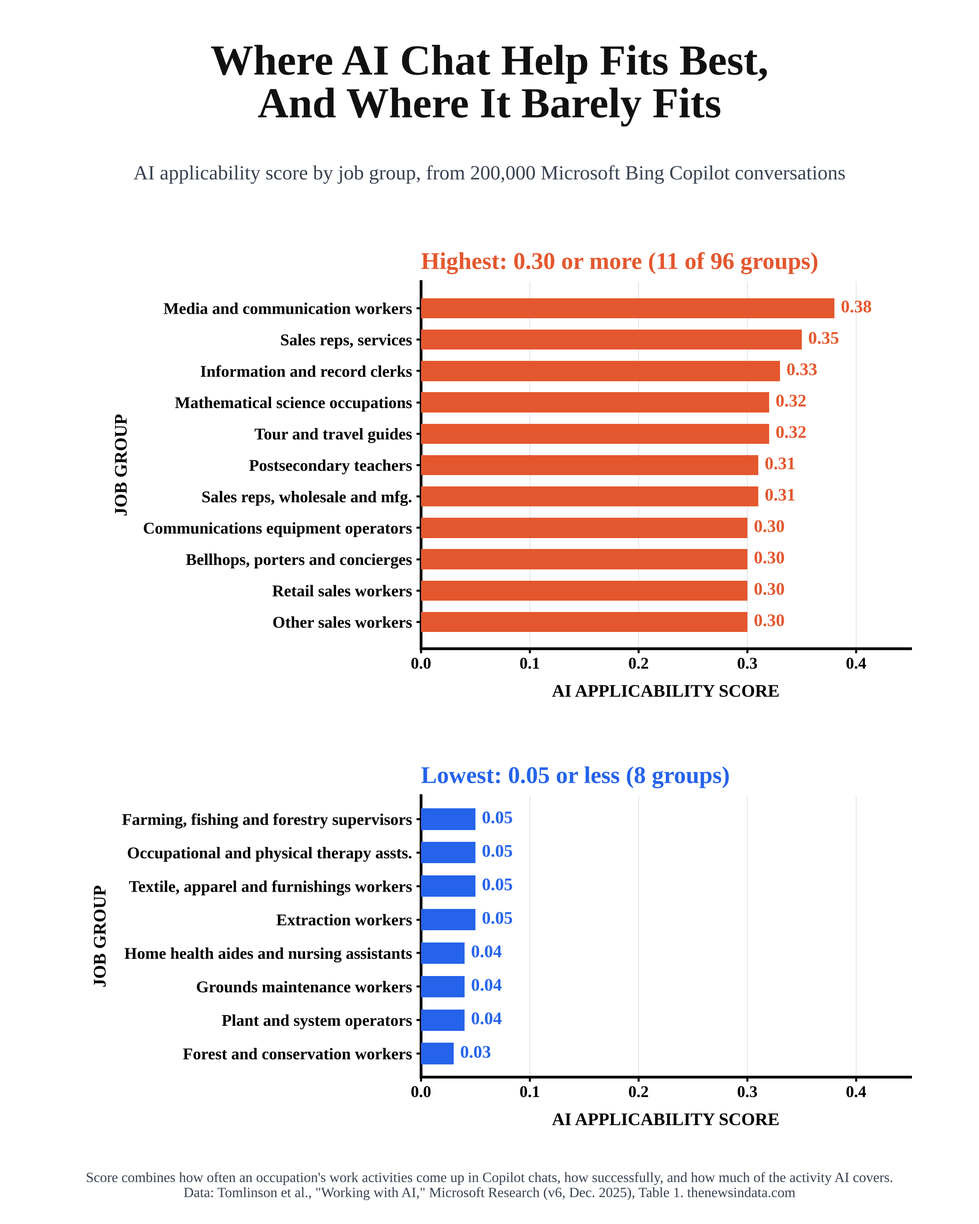
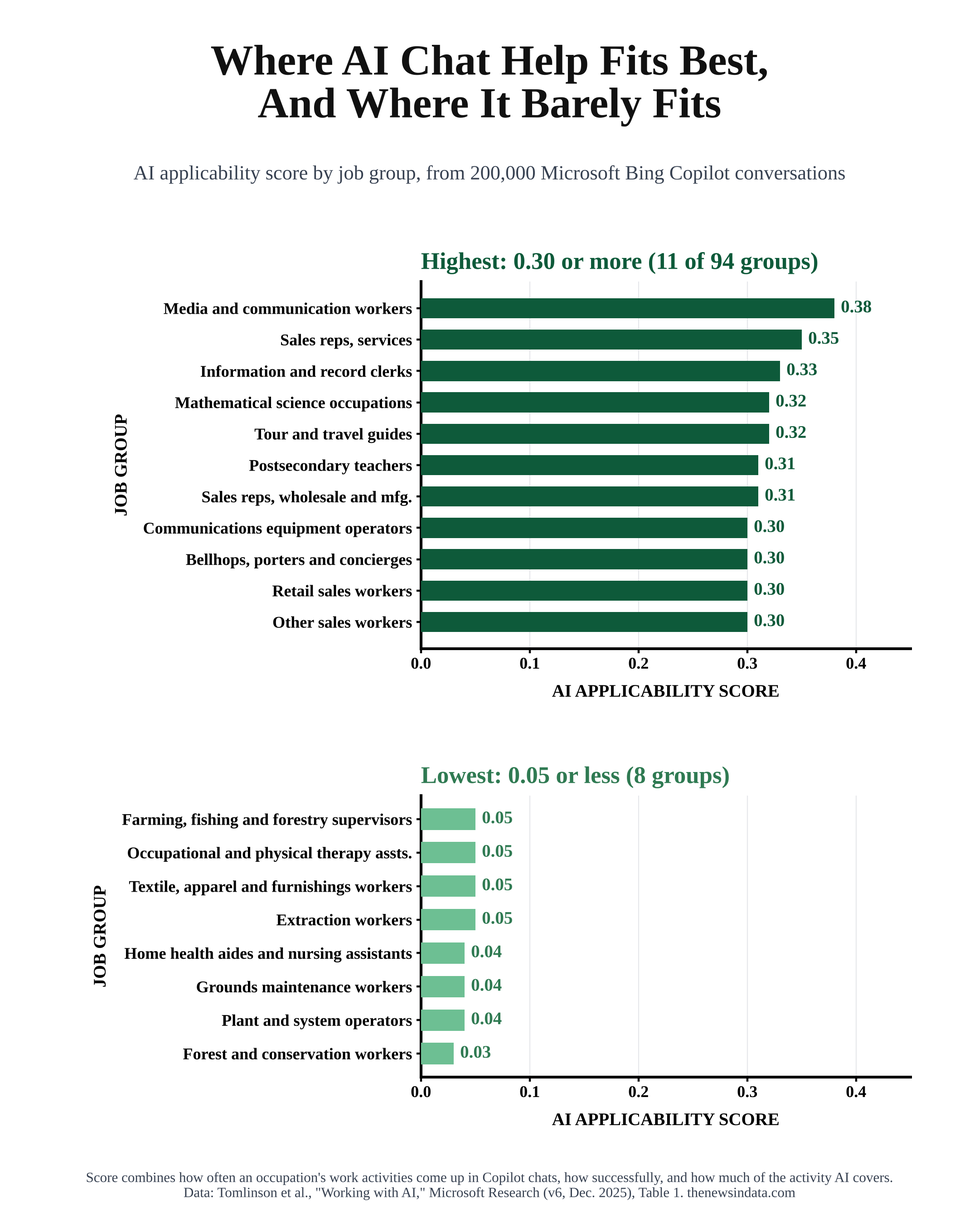
AI jobs: green charts, interactive embeds, post body
Claude-Session: https://claude.ai/code/session_014ps2HoqtiaDX9KtWWc6m6n

Changed region(s): [[0.4343, 0.1867, 0.8685, 0.5289], [0.4343, 0.6222, 0.7444, 0.8711]]

diff --git a/aijobs/post-body.html b/aijobs/post-body.html
@@ -1,0 +1,85 @@
+<style>.nid-a h2{margin:1.6em 0 .5em}.nid-a .nid-fig{margin:2.4em auto;max-width:620px}.nid-a .nid-fig img{width:100%;height:auto;display:block;border:1px solid #e6e3dd;border-radius:6px}.nid-a .nid-photo{max-width:520px}.nid-a .nid-fig figcaption{font-size:.82em;color:#5f7268;margin-top:.5em;line-height:1.4}.nid-a .nid-method{font-size:.92em;margin-top:2em}.nid-a .nid-fig.nid-wide{max-width:100%}.nid-a .nid-wide img{border-radius:8px}</style><div class="nid-a">
+<p>AI is already being used for 74.5% of computer programmers' work tasks, more than for any other occupation, according to a March 2026 study by Anthropic, the company that makes the Claude AI model. Customer service representatives (70.1%), data entry keyers (67.1%) and medical records specialists (66.7%) follow. Yet the study found no systematic rise in unemployment among the most exposed workers since ChatGPT's release in late 2022.</p>
+<figure class="nid-fig"><img src="https://stories.thenewsindata.com/aijobs/aijobs-chart.png?v=1" alt="Bar chart of the 10 occupations with the highest share of tasks already covered by AI use: computer programmers 74.5%, customer service representatives 70.1%, data entry keyers 67.1%, medical records specialists 66.7%, market research analysts 64.8%, wholesale sales reps 62.8%, financial analysts 57.2%, software QA analysts 51.9%, information security analysts 48.6% and computer support specialists 46.8%." width="1080" height="1350"></figure>
+<h2>What &quot;exposed&quot; means</h2>
+<p>The study, by Anthropic economists Maxim Massenkoff and Peter McCrory, starts with a 2023 rating of every task in the Labor Department's O*NET job database for whether a large language model could do it at least twice as fast. It then keeps only the tasks that actually show up in work-related Claude conversations, counts tasks Claude performs fully and tasks it assists with at half weight, and weights each task by how much of the job it takes up. The result is a share of each job's work that AI is already doing or helping with, not a forecast of job losses. About 30% of U.S. workers, including cooks, bartenders, lifeguards and dishwashers, have no exposure at all.</p>
+<figure class="nid-fig nid-photo nid-wide"><img src="https://upload.wikimedia.org/wikipedia/commons/1/15/ComputerProgrammer.jpg" alt="Hands typing code on a laptop keyboard" loading="lazy"><figcaption>Computer programmers have the highest observed exposure in Anthropic's data, at 74.5% of tasks. Photo: <a href="https://commons.wikimedia.org/wiki/File:ComputerProgrammer.jpg">Free-Photos</a>, <a href="https://creativecommons.org/publicdomain/zero/1.0/">CC0</a>, via Wikimedia Commons.</figcaption></figure>
+<h2>Most of what AI could do, it isn&#x27;t doing yet</h2>
+<p>Large language models could in theory speed up 94% of the tasks in computer and math jobs and 90% in office and administrative jobs, but Claude covers only about a third of computer and math tasks in practice. In grounds maintenance, the theoretical share is under 4%, and in transportation, agriculture, food service and construction it is under 20%.</p>
+<style>
+.nid-ai{max-width:640px;margin:2.4em auto;font-family:Georgia,'Times New Roman',serif;color:#111}
+.nid-ai h3{font-size:1.25em;margin:0 0 .2em;text-align:center}
+.nid-ai .sub{font-size:.88em;color:#4b5b52;text-align:center;margin:0 0 .9em}
+.nid-ai input{width:100%;box-sizing:border-box;padding:11px 14px;font:16px Georgia,serif;border:2px solid #0E5A3A;border-radius:999px;margin-bottom:10px;outline:none}
+.nid-ai .list{max-height:520px;overflow-y:auto;border:1px solid #dbe9e0;border-radius:10px;padding:6px 10px;background:#fff}
+.nid-ai .row{display:grid;grid-template-columns:2.2em 1fr 3em;align-items:center;gap:8px;padding:5px 0;border-bottom:1px solid #f0f5f2;font-size:.9em}
+.nid-ai .row:last-child{border-bottom:none}
+.nid-ai .rk{color:#6b7f73;font-size:.85em;text-align:right}
+.nid-ai .nm{line-height:1.2}
+.nid-ai .bar{height:8px;border-radius:4px;margin-top:4px}
+.nid-ai .val{font-weight:700;color:#0E5A3A;text-align:right}
+.nid-ai .row.hit{background:#E8F5EE}
+.nid-ai .note{font-size:.78em;color:#5f7268;margin-top:.6em;line-height:1.4;text-align:center}
+.nid-ai .tg{display:flex;justify-content:center;gap:8px;margin-bottom:10px}
+.nid-ai .tg button{font:600 14px/1 Georgia,serif;padding:8px 16px;border-radius:999px;border:2px solid #0E5A3A;background:#fff;color:#0E5A3A;cursor:pointer}
+.nid-ai .tg button[aria-pressed=true]{background:#0E5A3A;color:#fff}
+.nid-ai .cat{display:grid;grid-template-columns:minmax(120px,40%) 1fr;align-items:center;gap:10px;padding:4px 0;font-size:.9em;cursor:pointer}
+.nid-ai .track{background:#E8F5EE;border-radius:5px;height:20px;position:relative}
+.nid-ai .fill{height:20px;border-radius:5px;display:flex;align-items:center;justify-content:flex-end;padding-right:6px;box-sizing:border-box;color:#fff;font-weight:700;font-size:.82em}
+.nid-ai .fill.out{justify-content:flex-start}
+.nid-ai .lab{text-align:right;line-height:1.15}
+</style><div class="nid-ai" id="nid-ai-cat"><h3>How Much Of Each Job AI Could Speed Up</h3><p class="sub">Share of each job category's tasks a language model could theoretically speed up. Tap a bar for details.</p>
+<div class="tg" role="group" aria-label="Sort"><button type="button" data-s="v" aria-pressed="true">Highest first</button><button type="button" data-s="a" aria-pressed="false">A to Z</button></div><div class="bars"></div>
+<p class="note" id="nid-ai-cat-d">In computer and math jobs, AI could theoretically speed up 94% of tasks, but Claude was being used for only about a third of them.</p>
+<p class="note">Theoretical shares are Eloundou et al. (2023) task ratings as charted by Anthropic, "Labor market impacts of AI," March 2026, as reported by Euronews.</p></div>
+<script>(function(){var C=[["Computer and math", 94.3], ["Business and finance", 94.3], ["Management", 91.3], ["Office and administrative support", 90.0], ["Legal", 89.0], ["Architecture and engineering", 84.8], ["Arts and media", 83.7], ["Life, physical and social science", 77.0], ["Sales", 62.0], ["Education and library", 61.7], ["Healthcare practitioners", 59.9], ["Community and social service", 50.5], ["Protective service", 31.6], ["Healthcare support", 28.5], ["Production", 19.0], ["Installation and repair", 18.4], ["Personal care and service", 18.2], ["Food preparation and serving", 16.9], ["Construction", 16.9], ["Farming, fishing and forestry", 15.7], ["Transportation", 12.1], ["Grounds maintenance", 3.9]];var r=document.getElementById("nid-ai-cat");if(!r)return;var B=r.querySelector(".bars"),N=document.getElementById("nid-ai-cat-d"),bt=r.querySelectorAll("button");
+function col(v){var t=v/100;var a=[168,219,190],b=[14,90,58];return "rgb("+a.map(function(x,i){return Math.round(x+(b[i]-x)*t)}).join(",")+")"}
+function draw(s){var d=C.slice();if(s==="a")d.sort(function(x,y){return x[0]<y[0]?-1:1});B.innerHTML="";d.forEach(function(c){var e=document.createElement("div");e.className="cat";var o=c[1]<14;
+e.innerHTML='<span class="lab">'+c[0]+'</span><span class="track"><span class="fill'+(o?' out':'')+'" style="width:'+(o?Math.max(c[1],1):c[1])+'%;background:'+col(c[1])+'">'+(o?'':c[1].toFixed(1)+'%')+'</span>'+(o?'<span style="position:absolute;left:'+(c[1]+1.5)+'%;top:1px;font-weight:700;font-size:.82em;color:#0E5A3A">'+c[1].toFixed(1)+'%</span>':'')+'</span>';
+e.onclick=function(){N.textContent=c[0]+": a language model could theoretically speed up "+c[1].toFixed(1)+"% of the tasks in these jobs."};B.appendChild(e)})}
+bt.forEach(function(b){b.onclick=function(){bt.forEach(function(x){x.setAttribute("aria-pressed",x===b?"true":"false")});draw(b.getAttribute("data-s"))}});draw("v")})();</script>
+<h2>A second study finds the same pattern</h2>
+<p>Microsoft researchers scored 96 job groups on how well their work matches about 200,000 conversations with Bing Copilot. Media and communication workers scored highest at 0.38, followed by service sales representatives and information and record clerks. Forest and conservation workers, plant and system operators, grounds maintenance workers and home health aides scored lowest, at 0.04 or less. The researchers found only a weak link between a job's score and its pay.</p>
+<figure class="nid-fig"><img src="https://stories.thenewsindata.com/aijobs/aijobs-groups.png?v=1" alt="Bar charts of Microsoft AI applicability scores: media and communication workers 0.38 highest; forest and conservation workers 0.03 lowest." width="1080" height="1350"></figure>
+<p>Teachers land in the middle: postsecondary teachers score 0.31 and elementary, middle and high school teachers 0.18. Search for any of the 94 job groups below.</p>
+<style>
+.nid-ai{max-width:640px;margin:2.4em auto;font-family:Georgia,'Times New Roman',serif;color:#111}
+.nid-ai h3{font-size:1.25em;margin:0 0 .2em;text-align:center}
+.nid-ai .sub{font-size:.88em;color:#4b5b52;text-align:center;margin:0 0 .9em}
+.nid-ai input{width:100%;box-sizing:border-box;padding:11px 14px;font:16px Georgia,serif;border:2px solid #0E5A3A;border-radius:999px;margin-bottom:10px;outline:none}
+.nid-ai .list{max-height:520px;overflow-y:auto;border:1px solid #dbe9e0;border-radius:10px;padding:6px 10px;background:#fff}
+.nid-ai .row{display:grid;grid-template-columns:2.2em 1fr 3em;align-items:center;gap:8px;padding:5px 0;border-bottom:1px solid #f0f5f2;font-size:.9em}
+.nid-ai .row:last-child{border-bottom:none}
+.nid-ai .rk{color:#6b7f73;font-size:.85em;text-align:right}
+.nid-ai .nm{line-height:1.2}
+.nid-ai .bar{height:8px;border-radius:4px;margin-top:4px}
+.nid-ai .val{font-weight:700;color:#0E5A3A;text-align:right}
+.nid-ai .row.hit{background:#E8F5EE}
+.nid-ai .note{font-size:.78em;color:#5f7268;margin-top:.6em;line-height:1.4;text-align:center}
+.nid-ai .tg{display:flex;justify-content:center;gap:8px;margin-bottom:10px}
+.nid-ai .tg button{font:600 14px/1 Georgia,serif;padding:8px 16px;border-radius:999px;border:2px solid #0E5A3A;background:#fff;color:#0E5A3A;cursor:pointer}
+.nid-ai .tg button[aria-pressed=true]{background:#0E5A3A;color:#fff}
+.nid-ai .cat{display:grid;grid-template-columns:minmax(120px,40%) 1fr;align-items:center;gap:10px;padding:4px 0;font-size:.9em;cursor:pointer}
+.nid-ai .track{background:#E8F5EE;border-radius:5px;height:20px;position:relative}
+.nid-ai .fill{height:20px;border-radius:5px;display:flex;align-items:center;justify-content:flex-end;padding-right:6px;box-sizing:border-box;color:#fff;font-weight:700;font-size:.82em}
+.nid-ai .fill.out{justify-content:flex-start}
+.nid-ai .lab{text-align:right;line-height:1.15}
+</style><div class="nid-ai" id="nid-ai-find"><h3>Find Your Job Group</h3><p class="sub">AI applicability score for 94 job groups, from Microsoft's study of Bing Copilot conversations. Higher means more of the group's work matches what people use AI chat for.</p>
+<input type="search" placeholder="Type a job, like teacher, nurse or sales" aria-label="Search job groups"><div class="list" role="list"></div>
+<p class="note">Scores range from 0.03 to 0.38 in this data. Source: Tomlinson et al., "Working with AI," Microsoft Research, Table 1 (v6, Dec. 2025).</p></div>
+<script>(function(){var D=[["Media and Communication Workers", 0.38, 1], ["Sales Representatives, Services", 0.35, 2], ["Information and Record Clerks", 0.33, 2], ["Mathematical Science Occupations", 0.32, 0], ["Tour and Travel Guides", 0.32, 0], ["Postsecondary Teachers", 0.31, 1], ["Sales Reps., Wholesale and Manufacturing", 0.31, 1], ["Communications Equipment Operators", 0.3, 0], ["Baggage Porters, Bellhops, and Concierges", 0.3, 0], ["Retail Sales Workers", 0.3, 2], ["Other Sales and Related Workers", 0.3, 0], ["Computer Occupations", 0.29, 2], ["Personal Care and Service Supervisors", 0.27, 0], ["Entertainment Attendants and Related", 0.27, 1], ["Religious Workers", 0.26, 0], ["Social Scientists and Related", 0.26, 0], ["Librarians, Curators, and Archivists", 0.25, 0], ["Counselors, Social Workers, and Related", 0.25, 2], ["Supervisors of Production Workers", 0.25, 1], ["Other Office and Administrative Support Workers", 0.25, 2], ["Office and Administrative Support Supervisors", 0.25, 1], ["Financial Clerks", 0.24, 2], ["Secretaries and Administrative Assistants", 0.24, 2], ["Business Operations Specialists", 0.24, 2], ["Animal Care and Service Workers", 0.24, 0], ["Financial Specialists", 0.23, 2], ["Other Teachers and Instructors", 0.23, 1], ["Engineers", 0.22, 1], ["Physical Scientists", 0.21, 0], ["Drafters and Engineering and Mapping Technicians", 0.21, 1], ["Life Scientists", 0.2, 0], ["Art and Design Workers", 0.2, 1], ["Food and Beverage Serving Workers", 0.2, 2], ["Other Educational and Library Workers", 0.19, 1], ["Material Recording and Distribution Workers", 0.19, 2], ["Primary, Secondary, and Special Education Teachers", 0.18, 2], ["Media and Communications Equipment Workers", 0.18, 0], ["Advertising, Marketing, PR, and Sales Managers", 0.18, 1], ["Air Transportation Workers", 0.18, 0], ["Lawyers, Judges, and Related Workers", 0.17, 1], ["Transportation and Material Moving Supervisors", 0.17, 1], ["Architects, Surveyors, and Cartographers", 0.17, 0], ["Electrical and Electronic Equipment Mechanics", 0.17, 0], ["Other Healthcare Practitioners and Tech. Occupations", 0.16, 0], ["Sports Entertainers and Related", 0.16, 1], ["Other Personal Care and Service Workers", 0.16, 1], ["Cooks and Food Preparation Workers", 0.15, 2], ["Funeral Service Workers", 0.14, 0], ["Other Management Occupations", 0.14, 2], ["Building, Grounds, and Maintenance Supervisors", 0.14, 0], ["Other Protective Service Workers", 0.14, 1], ["Operations Specialties Managers", 0.14, 2], ["Occupational Health and Safety Specialists", 0.14, 0], ["Supervisors of Sales Workers", 0.14, 1], ["Law Enforcement Workers", 0.13, 1], ["Life, Physical, and Social Science Technicians", 0.13, 0], ["Motor Vehicle Operators", 0.13, 2], ["Healthcare Diagnosing or Treating Practitioners", 0.13, 2], ["Installation, Maintenance, and Repair Supervisors", 0.13, 1], ["Rail Transportation Workers", 0.12, 0], ["Other Food Preparation and Serving Workers", 0.12, 1], ["Food Preparation and Serving Supervisors", 0.12, 1], ["Food Processing Workers", 0.12, 1], ["Other Transportation Workers", 0.12, 0], ["Woodworkers", 0.12, 0], ["Top Executives", 0.11, 2], ["Construction and Extraction Supervisors", 0.11, 1], ["Assemblers and Fabricators", 0.11, 1], ["Printing Workers", 0.11, 0], ["Health Technologists and Technicians", 0.1, 2], ["Metal Workers and Plastic Workers", 0.1, 1], ["Vehicle and Mobile Equipment Mechanics", 0.1, 1], ["Other Maintenance Workers", 0.1, 2], ["Water Transportation Workers", 0.09, 0], ["Other Production Occupations", 0.08, 2], ["Building Cleaning and Pest Control Workers", 0.08, 2], ["Firefighting and Prevention Workers", 0.07, 0], ["Protective Service Supervisors", 0.07, 0], ["Material Moving Workers", 0.07, 2], ["Construction Trades Workers", 0.07, 2], ["Personal Appearance Workers", 0.06, 1], ["Agricultural Workers", 0.06, 0], ["Other Construction and Related Workers", 0.06, 0], ["Legal Support Workers", 0.06, 0], ["Other Healthcare Support Occupations", 0.06, 1], ["Helpers, Construction Trades", 0.06, 0], ["Farming, Fishing, and Forestry Supervisors", 0.05, 0], ["Occupational and Physical Therapy Assistants", 0.05, 0], ["Textile, Apparel, and Furnishings Workers", 0.05, 0], ["Extraction Workers", 0.05, 0], ["Home Health Aides and Nursing Assistants", 0.04, 2], ["Grounds Maintenance Workers", 0.04, 1], ["Plant and System Operators", 0.04, 0], ["Forest and Conservation Workers", 0.03, 0]];var r=document.getElementById("nid-ai-find");if(!r)return;var L=r.querySelector(".list"),I=r.querySelector("input");
+function col(v){var t=Math.max(0,Math.min(1,(v-.03)/.35));var a=[168,219,190],b=[14,90,58];return "rgb("+a.map(function(x,i){return Math.round(x+(b[i]-x)*t)}).join(",")+")"}
+function draw(q){q=(q||"").toLowerCase().trim();L.innerHTML="";var n=0;D.forEach(function(d,i){var m=!q||d[0].toLowerCase().indexOf(q)>-1;if(!m)return;n++;var e=document.createElement("div");e.className="row"+(q?" hit":"");e.setAttribute("role","listitem");
+e.innerHTML='<span class="rk">'+(i+1)+'</span><span class="nm">'+d[0]+'<div class="bar" style="width:'+(d[1]/.38*100)+'%;background:'+col(d[1])+'"></div></span><span class="val">'+d[1].toFixed(2)+'</span>';L.appendChild(e)});
+if(!n)L.innerHTML='<div class="row"><span></span><span class="nm">No match. Try a broader word, like "sales" or "health."</span><span></span></div>'}
+I.addEventListener("input",function(){draw(I.value)});draw("")})();</script>
+<h2>Who works in the most exposed jobs</h2>
+<p>Workers in the top quarter of exposure earn about 47% more than workers with no exposure and are 16 percentage points more likely to be women. Graduate degree holders make up 17.4% of the most exposed group and 4.5% of the unexposed group.</p>
+<h2>Where the effect may be showing up</h2>
+<p>Unemployment in the most exposed jobs has tracked unemployment in jobs with no exposure. The one sign of change is among young workers: the rate at which 22- to 25-year-olds start jobs in highly exposed occupations has averaged 14% lower since ChatGPT's release than in 2022, a result the authors call barely statistically significant, with no similar drop for workers over 25. Stanford researchers have reported a 6% to 16% fall in employment for 22- to 25-year-olds in exposed occupations. The Bureau of Labor Statistics also projects slower growth through 2034 for more exposed jobs, about 0.6 percentage point less for every 10 points of exposure.</p>
+<figure class="nid-fig nid-photo nid-wide"><img src="https://upload.wikimedia.org/wikipedia/commons/5/5f/Callcenter03.jpg" alt="Customer service agents wearing headsets at desks in a call center" loading="lazy"><figcaption>A railway call center in Hungary. Customer service representatives rank second, at 70.1%. Photo: <a href="https://commons.wikimedia.org/wiki/File:Callcenter03.jpg">MÁV Zrt.</a>, <a href="https://creativecommons.org/licenses/by-sa/3.0/">CC BY-SA 3.0</a>, via Wikimedia Commons.</figcaption></figure>
+<h2>What the data can&#x27;t tell us</h2>
+<p>Exposure measures where AI is being used, not whether a job will disappear; AI can also make workers more productive or change what a job involves. Anthropic's measure reflects how people used Claude in August and November 2025, and Microsoft's reflects Bing Copilot users, so neither captures all AI use. The 2023 task ratings may understate what newer models can do. Both studies come from companies that sell AI products.</p>
+<figure class="nid-fig nid-photo nid-wide"><img src="https://upload.wikimedia.org/wikipedia/commons/thumb/5/56/The_workers_of_4WTC_%2824488390089%29.jpg/1280px-The_workers_of_4WTC_%2824488390089%29.jpg" alt="Construction workers in hard hats at 4 World Trade Center" loading="lazy"><figcaption>Construction trades score among the lowest for AI applicability. Photo: <a href="https://commons.wikimedia.org/wiki/File:The_workers_of_4WTC_(24488390089).jpg">Billie Grace Ward</a>, <a href="https://creativecommons.org/licenses/by/2.0/">CC BY 2.0</a>, via Wikimedia Commons.</figcaption></figure>
+<p class="nid-method"><em>How we counted: occupation figures are Anthropic's "observed exposure," the time-weighted share of an occupation's O\*NET tasks that are rated feasible for a language model and appear in work-related Claude usage, with fully automated use weighted 1 and assisted use 0.5. Job-group scores are Microsoft's AI applicability scores from Table 1 of "Working with AI" (version 6, December 2025). Sources: <a href="https://www.anthropic.com/research/labor-market-impacts">Anthropic, "Labor market impacts of AI," March 5, 2026</a>; <a href="https://arxiv.org/abs/2507.07935">Tomlinson et al., Microsoft Research</a>; <a href="https://www.euronews.com/2026/03/14/how-ai-will-reshape-work-anthropic-identifies-the-most-exposed-jobs">Euronews, March 14, 2026</a>.</em></p>
+</div>

diff --git a/aijobs/embed-find.html b/aijobs/embed-find.html
@@ -1,0 +1,31 @@
+<style>
+.nid-ai{max-width:640px;margin:2.4em auto;font-family:Georgia,'Times New Roman',serif;color:#111}
+.nid-ai h3{font-size:1.25em;margin:0 0 .2em;text-align:center}
+.nid-ai .sub{font-size:.88em;color:#4b5b52;text-align:center;margin:0 0 .9em}
+.nid-ai input{width:100%;box-sizing:border-box;padding:11px 14px;font:16px Georgia,serif;border:2px solid #0E5A3A;border-radius:999px;margin-bottom:10px;outline:none}
+.nid-ai .list{max-height:520px;overflow-y:auto;border:1px solid #dbe9e0;border-radius:10px;padding:6px 10px;background:#fff}
+.nid-ai .row{display:grid;grid-template-columns:2.2em 1fr 3em;align-items:center;gap:8px;padding:5px 0;border-bottom:1px solid #f0f5f2;font-size:.9em}
+.nid-ai .row:last-child{border-bottom:none}
+.nid-ai .rk{color:#6b7f73;font-size:.85em;text-align:right}
+.nid-ai .nm{line-height:1.2}
+.nid-ai .bar{height:8px;border-radius:4px;margin-top:4px}
+.nid-ai .val{font-weight:700;color:#0E5A3A;text-align:right}
+.nid-ai .row.hit{background:#E8F5EE}
+.nid-ai .note{font-size:.78em;color:#5f7268;margin-top:.6em;line-height:1.4;text-align:center}
+.nid-ai .tg{display:flex;justify-content:center;gap:8px;margin-bottom:10px}
+.nid-ai .tg button{font:600 14px/1 Georgia,serif;padding:8px 16px;border-radius:999px;border:2px solid #0E5A3A;background:#fff;color:#0E5A3A;cursor:pointer}
+.nid-ai .tg button[aria-pressed=true]{background:#0E5A3A;color:#fff}
+.nid-ai .cat{display:grid;grid-template-columns:minmax(120px,40%) 1fr;align-items:center;gap:10px;padding:4px 0;font-size:.9em;cursor:pointer}
+.nid-ai .track{background:#E8F5EE;border-radius:5px;height:20px;position:relative}
+.nid-ai .fill{height:20px;border-radius:5px;display:flex;align-items:center;justify-content:flex-end;padding-right:6px;box-sizing:border-box;color:#fff;font-weight:700;font-size:.82em}
+.nid-ai .fill.out{justify-content:flex-start}
+.nid-ai .lab{text-align:right;line-height:1.15}
+</style><div class="nid-ai" id="nid-ai-find"><h3>Find Your Job Group</h3><p class="sub">AI applicability score for 94 job groups, from Microsoft's study of Bing Copilot conversations. Higher means more of the group's work matches what people use AI chat for.</p>
+<input type="search" placeholder="Type a job, like teacher, nurse or sales" aria-label="Search job groups"><div class="list" role="list"></div>
+<p class="note">Scores range from 0.03 to 0.38 in this data. Source: Tomlinson et al., "Working with AI," Microsoft Research, Table 1 (v6, Dec. 2025).</p></div>
+<script>(function(){var D=[["Media and Communication Workers", 0.38, 1], ["Sales Representatives, Services", 0.35, 2], ["Information and Record Clerks", 0.33, 2], ["Mathematical Science Occupations", 0.32, 0], ["Tour and Travel Guides", 0.32, 0], ["Postsecondary Teachers", 0.31, 1], ["Sales Reps., Wholesale and Manufacturing", 0.31, 1], ["Communications Equipment Operators", 0.3, 0], ["Baggage Porters, Bellhops, and Concierges", 0.3, 0], ["Retail Sales Workers", 0.3, 2], ["Other Sales and Related Workers", 0.3, 0], ["Computer Occupations", 0.29, 2], ["Personal Care and Service Supervisors", 0.27, 0], ["Entertainment Attendants and Related", 0.27, 1], ["Religious Workers", 0.26, 0], ["Social Scientists and Related", 0.26, 0], ["Librarians, Curators, and Archivists", 0.25, 0], ["Counselors, Social Workers, and Related", 0.25, 2], ["Supervisors of Production Workers", 0.25, 1], ["Other Office and Administrative Support Workers", 0.25, 2], ["Office and Administrative Support Supervisors", 0.25, 1], ["Financial Clerks", 0.24, 2], ["Secretaries and Administrative Assistants", 0.24, 2], ["Business Operations Specialists", 0.24, 2], ["Animal Care and Service Workers", 0.24, 0], ["Financial Specialists", 0.23, 2], ["Other Teachers and Instructors", 0.23, 1], ["Engineers", 0.22, 1], ["Physical Scientists", 0.21, 0], ["Drafters and Engineering and Mapping Technicians", 0.21, 1], ["Life Scientists", 0.2, 0], ["Art and Design Workers", 0.2, 1], ["Food and Beverage Serving Workers", 0.2, 2], ["Other Educational and Library Workers", 0.19, 1], ["Material Recording and Distribution Workers", 0.19, 2], ["Primary, Secondary, and Special Education Teachers", 0.18, 2], ["Media and Communications Equipment Workers", 0.18, 0], ["Advertising, Marketing, PR, and Sales Managers", 0.18, 1], ["Air Transportation Workers", 0.18, 0], ["Lawyers, Judges, and Related Workers", 0.17, 1], ["Transportation and Material Moving Supervisors", 0.17, 1], ["Architects, Surveyors, and Cartographers", 0.17, 0], ["Electrical and Electronic Equipment Mechanics", 0.17, 0], ["Other Healthcare Practitioners and Tech. Occupations", 0.16, 0], ["Sports Entertainers and Related", 0.16, 1], ["Other Personal Care and Service Workers", 0.16, 1], ["Cooks and Food Preparation Workers", 0.15, 2], ["Funeral Service Workers", 0.14, 0], ["Other Management Occupations", 0.14, 2], ["Building, Grounds, and Maintenance Supervisors", 0.14, 0], ["Other Protective Service Workers", 0.14, 1], ["Operations Specialties Managers", 0.14, 2], ["Occupational Health and Safety Specialists", 0.14, 0], ["Supervisors of Sales Workers", 0.14, 1], ["Law Enforcement Workers", 0.13, 1], ["Life, Physical, and Social Science Technicians", 0.13, 0], ["Motor Vehicle Operators", 0.13, 2], ["Healthcare Diagnosing or Treating Practitioners", 0.13, 2], ["Installation, Maintenance, and Repair Supervisors", 0.13, 1], ["Rail Transportation Workers", 0.12, 0], ["Other Food Preparation and Serving Workers", 0.12, 1], ["Food Preparation and Serving Supervisors", 0.12, 1], ["Food Processing Workers", 0.12, 1], ["Other Transportation Workers", 0.12, 0], ["Woodworkers", 0.12, 0], ["Top Executives", 0.11, 2], ["Construction and Extraction Supervisors", 0.11, 1], ["Assemblers and Fabricators", 0.11, 1], ["Printing Workers", 0.11, 0], ["Health Technologists and Technicians", 0.1, 2], ["Metal Workers and Plastic Workers", 0.1, 1], ["Vehicle and Mobile Equipment Mechanics", 0.1, 1], ["Other Maintenance Workers", 0.1, 2], ["Water Transportation Workers", 0.09, 0], ["Other Production Occupations", 0.08, 2], ["Building Cleaning and Pest Control Workers", 0.08, 2], ["Firefighting and Prevention Workers", 0.07, 0], ["Protective Service Supervisors", 0.07, 0], ["Material Moving Workers", 0.07, 2], ["Construction Trades Workers", 0.07, 2], ["Personal Appearance Workers", 0.06, 1], ["Agricultural Workers", 0.06, 0], ["Other Construction and Related Workers", 0.06, 0], ["Legal Support Workers", 0.06, 0], ["Other Healthcare Support Occupations", 0.06, 1], ["Helpers, Construction Trades", 0.06, 0], ["Farming, Fishing, and Forestry Supervisors", 0.05, 0], ["Occupational and Physical Therapy Assistants", 0.05, 0], ["Textile, Apparel, and Furnishings Workers", 0.05, 0], ["Extraction Workers", 0.05, 0], ["Home Health Aides and Nursing Assistants", 0.04, 2], ["Grounds Maintenance Workers", 0.04, 1], ["Plant and System Operators", 0.04, 0], ["Forest and Conservation Workers", 0.03, 0]];var r=document.getElementById("nid-ai-find");if(!r)return;var L=r.querySelector(".list"),I=r.querySelector("input");
+function col(v){var t=Math.max(0,Math.min(1,(v-.03)/.35));var a=[168,219,190],b=[14,90,58];return "rgb("+a.map(function(x,i){return Math.round(x+(b[i]-x)*t)}).join(",")+")"}
+function draw(q){q=(q||"").toLowerCase().trim();L.innerHTML="";var n=0;D.forEach(function(d,i){var m=!q||d[0].toLowerCase().indexOf(q)>-1;if(!m)return;n++;var e=document.createElement("div");e.className="row"+(q?" hit":"");e.setAttribute("role","listitem");
+e.innerHTML='<span class="rk">'+(i+1)+'</span><span class="nm">'+d[0]+'<div class="bar" style="width:'+(d[1]/.38*100)+'%;background:'+col(d[1])+'"></div></span><span class="val">'+d[1].toFixed(2)+'</span>';L.appendChild(e)});
+if(!n)L.innerHTML='<div class="row"><span></span><span class="nm">No match. Try a broader word, like "sales" or "health."</span><span></span></div>'}
+I.addEventListener("input",function(){draw(I.value)});draw("")})();</script>

diff --git a/aijobs/embed-cat.html b/aijobs/embed-cat.html
@@ -1,0 +1,32 @@
+<style>
+.nid-ai{max-width:640px;margin:2.4em auto;font-family:Georgia,'Times New Roman',serif;color:#111}
+.nid-ai h3{font-size:1.25em;margin:0 0 .2em;text-align:center}
+.nid-ai .sub{font-size:.88em;color:#4b5b52;text-align:center;margin:0 0 .9em}
+.nid-ai input{width:100%;box-sizing:border-box;padding:11px 14px;font:16px Georgia,serif;border:2px solid #0E5A3A;border-radius:999px;margin-bottom:10px;outline:none}
+.nid-ai .list{max-height:520px;overflow-y:auto;border:1px solid #dbe9e0;border-radius:10px;padding:6px 10px;background:#fff}
+.nid-ai .row{display:grid;grid-template-columns:2.2em 1fr 3em;align-items:center;gap:8px;padding:5px 0;border-bottom:1px solid #f0f5f2;font-size:.9em}
+.nid-ai .row:last-child{border-bottom:none}
+.nid-ai .rk{color:#6b7f73;font-size:.85em;text-align:right}
+.nid-ai .nm{line-height:1.2}
+.nid-ai .bar{height:8px;border-radius:4px;margin-top:4px}
+.nid-ai .val{font-weight:700;color:#0E5A3A;text-align:right}
+.nid-ai .row.hit{background:#E8F5EE}
+.nid-ai .note{font-size:.78em;color:#5f7268;margin-top:.6em;line-height:1.4;text-align:center}
+.nid-ai .tg{display:flex;justify-content:center;gap:8px;margin-bottom:10px}
+.nid-ai .tg button{font:600 14px/1 Georgia,serif;padding:8px 16px;border-radius:999px;border:2px solid #0E5A3A;background:#fff;color:#0E5A3A;cursor:pointer}
+.nid-ai .tg button[aria-pressed=true]{background:#0E5A3A;color:#fff}
+.nid-ai .cat{display:grid;grid-template-columns:minmax(120px,40%) 1fr;align-items:center;gap:10px;padding:4px 0;font-size:.9em;cursor:pointer}
+.nid-ai .track{background:#E8F5EE;border-radius:5px;height:20px;position:relative}
+.nid-ai .fill{height:20px;border-radius:5px;display:flex;align-items:center;justify-content:flex-end;padding-right:6px;box-sizing:border-box;color:#fff;font-weight:700;font-size:.82em}
+.nid-ai .fill.out{justify-content:flex-start}
+.nid-ai .lab{text-align:right;line-height:1.15}
+</style><div class="nid-ai" id="nid-ai-cat"><h3>How Much Of Each Job AI Could Speed Up</h3><p class="sub">Share of each job category's tasks a language model could theoretically speed up. Tap a bar for details.</p>
+<div class="tg" role="group" aria-label="Sort"><button type="button" data-s="v" aria-pressed="true">Highest first</button><button type="button" data-s="a" aria-pressed="false">A to Z</button></div><div class="bars"></div>
+<p class="note" id="nid-ai-cat-d">In computer and math jobs, AI could theoretically speed up 94% of tasks, but Claude was being used for only about a third of them.</p>
+<p class="note">Theoretical shares are Eloundou et al. (2023) task ratings as charted by Anthropic, "Labor market impacts of AI," March 2026, as reported by Euronews.</p></div>
+<script>(function(){var C=[["Computer and math", 94.3], ["Business and finance", 94.3], ["Management", 91.3], ["Office and administrative support", 90.0], ["Legal", 89.0], ["Architecture and engineering", 84.8], ["Arts and media", 83.7], ["Life, physical and social science", 77.0], ["Sales", 62.0], ["Education and library", 61.7], ["Healthcare practitioners", 59.9], ["Community and social service", 50.5], ["Protective service", 31.6], ["Healthcare support", 28.5], ["Production", 19.0], ["Installation and repair", 18.4], ["Personal care and service", 18.2], ["Food preparation and serving", 16.9], ["Construction", 16.9], ["Farming, fishing and forestry", 15.7], ["Transportation", 12.1], ["Grounds maintenance", 3.9]];var r=document.getElementById("nid-ai-cat");if(!r)return;var B=r.querySelector(".bars"),N=document.getElementById("nid-ai-cat-d"),bt=r.querySelectorAll("button");
+function col(v){var t=v/100;var a=[168,219,190],b=[14,90,58];return "rgb("+a.map(function(x,i){return Math.round(x+(b[i]-x)*t)}).join(",")+")"}
+function draw(s){var d=C.slice();if(s==="a")d.sort(function(x,y){return x[0]<y[0]?-1:1});B.innerHTML="";d.forEach(function(c){var e=document.createElement("div");e.className="cat";var o=c[1]<14;
+e.innerHTML='<span class="lab">'+c[0]+'</span><span class="track"><span class="fill'+(o?' out':'')+'" style="width:'+(o?Math.max(c[1],1):c[1])+'%;background:'+col(c[1])+'">'+(o?'':c[1].toFixed(1)+'%')+'</span>'+(o?'<span style="position:absolute;left:'+(c[1]+1.5)+'%;top:1px;font-weight:700;font-size:.82em;color:#0E5A3A">'+c[1].toFixed(1)+'%</span>':'')+'</span>';
+e.onclick=function(){N.textContent=c[0]+": a language model could theoretically speed up "+c[1].toFixed(1)+"% of the tasks in these jobs."};B.appendChild(e)})}
+bt.forEach(function(b){b.onclick=function(){bt.forEach(function(x){x.setAttribute("aria-pressed",x===b?"true":"false")});draw(b.getAttribute("data-s"))}});draw("v")})();</script>
